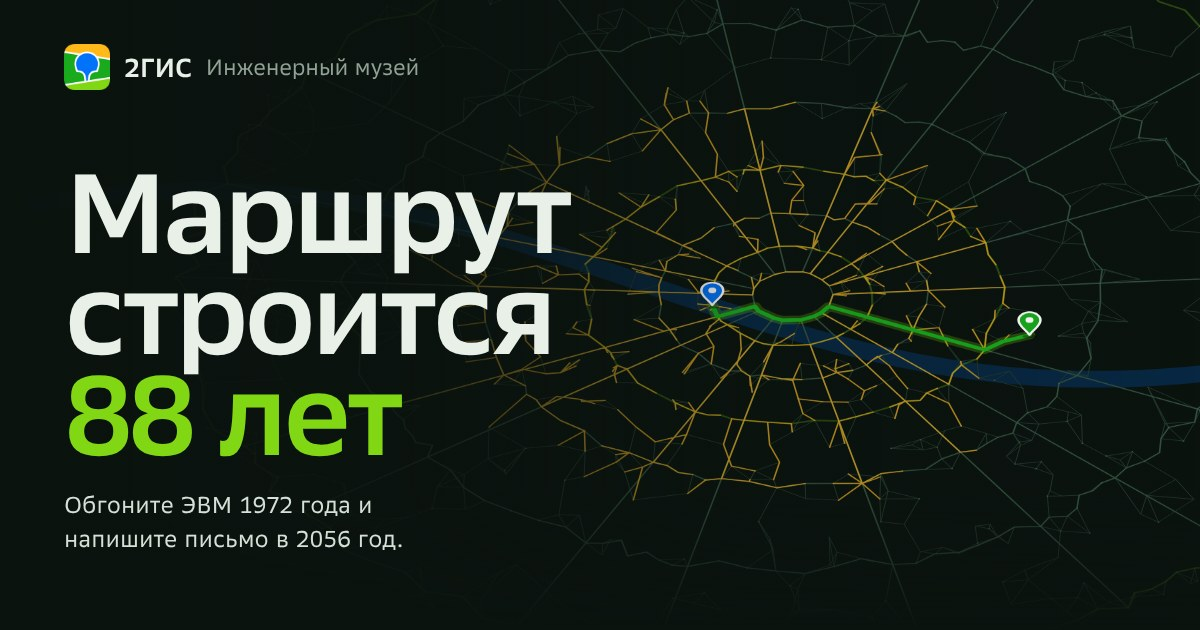
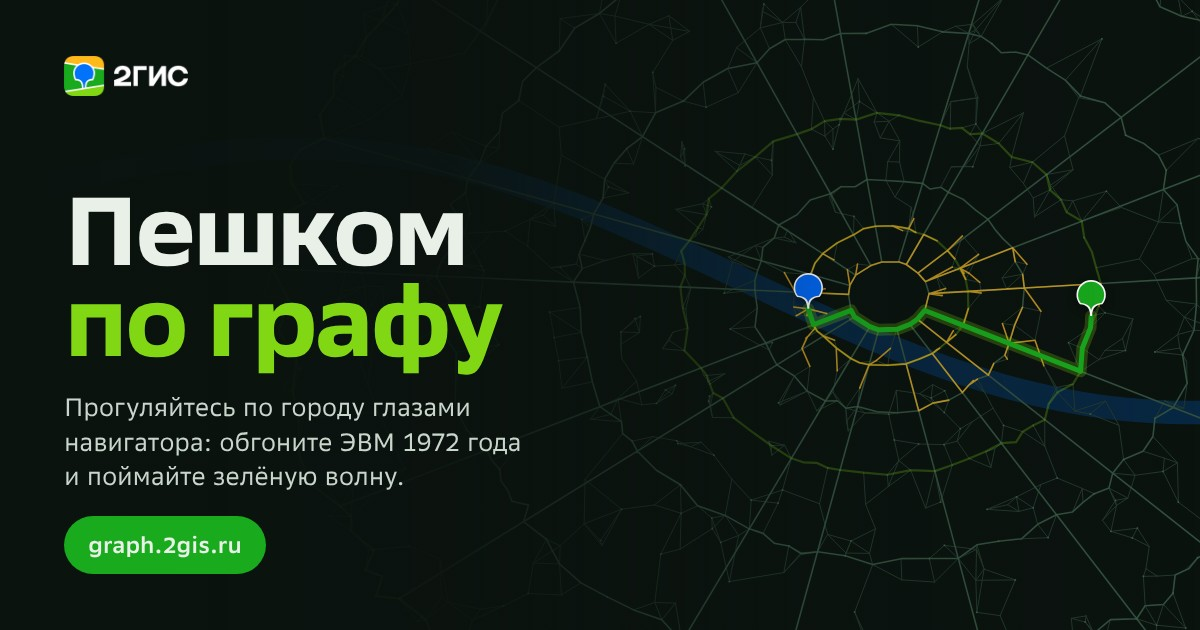
Новое название «Пешком по графу»: заголовок и подзаголовок главной, title/og/twitter, превью og.jpg, подпись на «Письме»
Claude-Session: https://claude.ai/code/session_01CYG6KtKyUFjKPup6NzhrLG

diff --git a/index.html b/index.html
@@ -2,29 +2,29 @@
 <html lang="ru">
 <head>
 <meta charset="utf-8">
-<meta http-equiv="Content-Security-Policy" content="default-src 'none'; script-src 'sha256-mmekFT+vSR/B6i0H95cW++vMzLoxH6wfx28uEVLhYxU='; style-src 'self' 'unsafe-inline'; img-src 'self' data: blob:; font-src 'self'; connect-src 'none'; media-src 'none'; object-src 'none'; frame-src 'none'; worker-src 'none'; manifest-src 'none'; base-uri 'none'; form-action 'none'; upgrade-insecure-requests">
+<meta http-equiv="Content-Security-Policy" content="default-src 'none'; script-src 'sha256-JeanmXmzfHwtocuhwb2xp05it23G108tna4gvtkZtZo='; style-src 'self' 'unsafe-inline'; img-src 'self' data: blob:; font-src 'self'; connect-src 'none'; media-src 'none'; object-src 'none'; frame-src 'none'; worker-src 'none'; manifest-src 'none'; base-uri 'none'; form-action 'none'; upgrade-insecure-requests">
 <meta name="referrer" content="strict-origin-when-cross-origin">
 <meta name="viewport" content="width=device-width,initial-scale=1,viewport-fit=cover">
 <meta name="theme-color" content="#0B130F">
 <link rel="icon" href="assets/img/2gis-logo.png">
-<title>Маршрут строится 88 лет</title>
-<meta name="description" content="Обгоните ЭВМ 1972 года, перекройте улицы и сравните алгоритмы поиска пути, напишите письмо в 2056 год. Интерактивный музей одной инженерной задачи от 2ГИС.">
+<title>Пешком по графу</title>
+<meta name="description" content="Прогуляйтесь по городу глазами навигатора: обгоните ЭВМ 1972 года и поймайте зелёную волну.">
 <link rel="canonical" href="https://graph.2gis.ru/">
 <meta property="og:type" content="website">
 <meta property="og:site_name" content="2ГИС · Инженерный музей">
 <meta property="og:locale" content="ru_RU">
 <meta property="og:url" content="https://graph.2gis.ru/">
-<meta property="og:title" content="Маршрут строится 88 лет">
-<meta property="og:description" content="Обгоните ЭВМ 1972 года, перекройте улицы и сравните алгоритмы поиска пути, напишите письмо в 2056 год. Интерактивный музей одной инженерной задачи от 2ГИС.">
+<meta property="og:title" content="Пешком по графу">
+<meta property="og:description" content="Прогуляйтесь по городу глазами навигатора: обгоните ЭВМ 1972 года и поймайте зелёную волну.">
 <meta property="og:image" content="https://graph.2gis.ru/assets/og.jpg">
 <meta property="og:image:secure_url" content="https://graph.2gis.ru/assets/og.jpg">
 <meta property="og:image:type" content="image/jpeg">
 <meta property="og:image:width" content="1200">
 <meta property="og:image:height" content="630">
-<meta property="og:image:alt" content="Ночная карта города с построенным маршрутом и заголовком «Маршрут строится 88 лет»">
+<meta property="og:image:alt" content="Ночная карта города с построенным маршрутом и заголовком «Пешком по графу»">
 <meta name="twitter:card" content="summary_large_image">
-<meta name="twitter:title" content="Маршрут строится 88 лет">
-<meta name="twitter:description" content="Обгоните ЭВМ 1972 года, перекройте улицы и сравните алгоритмы поиска пути, напишите письмо в 2056 год. Интерактивный музей одной инженерной задачи от 2ГИС.">
+<meta name="twitter:title" content="Пешком по графу">
+<meta name="twitter:description" content="Прогуляйтесь по городу глазами навигатора: обгоните ЭВМ 1972 года и поймайте зелёную волну.">
 <meta name="twitter:image" content="https://graph.2gis.ru/assets/og.jpg">
 <meta name="vk:image" content="https://graph.2gis.ru/assets/og.jpg">
 <style>
@@ -683,8 +683,8 @@ html{scroll-padding-top:96px}
   </div>
   <div class="wrap hero-in">
     <div class="hero-copy">
-      <h1 id="h1">Навигация <span class="yrs">интереснее, чем&nbsp;кажется</span></h1>
-      <p class="lede">Тысячи лет люди строили маршруты самостоятельно, а в XX веке это начали доверять машине. Мы нашли статьи про задачи навигации в советских журналах и сравнили с рассказами инженеров 2ГИС о том, как всё работает сегодня. Получился интерактивный музей, в котором можно узнать, какая сложная инженерная работа стоит за маршрутами.</p>
+      <h1 id="h1">Пешком <span class="yrs">по&nbsp;графу</span></h1>
+      <p class="lede">Это интерактивный музей задач про навигацию. Обгоните ЭВМ 1972 года, поймайте зелёную волну и найдите себя на карте глазами робота.</p>
       <div class="ctas">
         <a class="btn btn-go" href="#hall-1">Начать экскурсию</a>
         <a class="btn btn-ghost" href="#letter">Сразу в 2056 год</a>
@@ -1952,7 +1952,7 @@ try{(function letter(){
     body();
     x.save(); x.translate(w-L-140,PB-95); x.rotate(-.2); x.strokeStyle='rgba(200,40,30,.85)'; x.fillStyle='rgba(200,40,30,.85)'; x.lineWidth=5; x.strokeRect(-135,-56,270,112); x.lineWidth=2; x.strokeRect(-125,-46,250,92);
     x.textAlign='center'; x.font='600 42px "SB Sans Text", sans-serif'; x.fillText('№ '+intf(a.no),0,4); x.font='500 19px "SB Sans Text", sans-serif'; x.fillText('из '+intf(TOTAL)+' вариантов',0,34); x.restore(); x.textAlign='left';
-    x.fillStyle='#46E06A'; x.font='500 24px "SB Sans Text", sans-serif'; x.fillText('Маршрут строится 88 лет · 2ГИС',L-70,h-48);
+    x.fillStyle='#46E06A'; x.font='500 24px "SB Sans Text", sans-serif'; x.fillText('Пешком по графу · 2ГИС',L-70,h-48);
     c.toBlob(b=>{ if(!b){note.textContent='Не удалось собрать картинку.';return} const u=URL.createObjectURL(b); const l=document.createElement('a'); l.href=u; l.download='pismo-2056.png'; document.body.appendChild(l); l.click(); l.remove(); setTimeout(()=>URL.revokeObjectURL(u),4000); note.textContent='Картинка сохранена в загрузки.'; },'image/png');
   };
   render();

diff --git a/source/template.html b/source/template.html
@@ -1,21 +1,21 @@
-<title>Маршрут строится 88 лет</title>
-<meta name="description" content="Обгоните ЭВМ 1972 года, перекройте улицы и сравните алгоритмы поиска пути, напишите письмо в 2056 год. Интерактивный музей одной инженерной задачи от 2ГИС.">
+<title>Пешком по графу</title>
+<meta name="description" content="Прогуляйтесь по городу глазами навигатора: обгоните ЭВМ 1972 года и поймайте зелёную волну.">
 <link rel="canonical" href="https://graph.2gis.ru/">
 <meta property="og:type" content="website">
 <meta property="og:site_name" content="2ГИС · Инженерный музей">
 <meta property="og:locale" content="ru_RU">
 <meta property="og:url" content="https://graph.2gis.ru/">
-<meta property="og:title" content="Маршрут строится 88 лет">
-<meta property="og:description" content="Обгоните ЭВМ 1972 года, перекройте улицы и сравните алгоритмы поиска пути, напишите письмо в 2056 год. Интерактивный музей одной инженерной задачи от 2ГИС.">
+<meta property="og:title" content="Пешком по графу">
+<meta property="og:description" content="Прогуляйтесь по городу глазами навигатора: обгоните ЭВМ 1972 года и поймайте зелёную волну.">
 <meta property="og:image" content="https://graph.2gis.ru/assets/og.jpg">
 <meta property="og:image:secure_url" content="https://graph.2gis.ru/assets/og.jpg">
 <meta property="og:image:type" content="image/jpeg">
 <meta property="og:image:width" content="1200">
 <meta property="og:image:height" content="630">
-<meta property="og:image:alt" content="Ночная карта города с построенным маршрутом и заголовком «Маршрут строится 88 лет»">
+<meta property="og:image:alt" content="Ночная карта города с построенным маршрутом и заголовком «Пешком по графу»">
 <meta name="twitter:card" content="summary_large_image">
-<meta name="twitter:title" content="Маршрут строится 88 лет">
-<meta name="twitter:description" content="Обгоните ЭВМ 1972 года, перекройте улицы и сравните алгоритмы поиска пути, напишите письмо в 2056 год. Интерактивный музей одной инженерной задачи от 2ГИС.">
+<meta name="twitter:title" content="Пешком по графу">
+<meta name="twitter:description" content="Прогуляйтесь по городу глазами навигатора: обгоните ЭВМ 1972 года и поймайте зелёную волну.">
 <meta name="twitter:image" content="https://graph.2gis.ru/assets/og.jpg">
 <meta name="vk:image" content="https://graph.2gis.ru/assets/og.jpg">
 <style>
@@ -669,8 +669,8 @@ html{scroll-padding-top:96px}
   </div>
   <div class="wrap hero-in">
     <div class="hero-copy">
-      <h1 id="h1">Навигация <span class="yrs">интереснее, чем&nbsp;кажется</span></h1>
-      <p class="lede">Тысячи лет люди строили маршруты самостоятельно, а в XX веке это начали доверять машине. Мы нашли статьи про задачи навигации в советских журналах и сравнили с рассказами инженеров 2ГИС о том, как всё работает сегодня. Получился интерактивный музей, в котором можно узнать, какая сложная инженерная работа стоит за маршрутами.</p>
+      <h1 id="h1">Пешком <span class="yrs">по&nbsp;графу</span></h1>
+      <p class="lede">Это интерактивный музей задач про навигацию. Обгоните ЭВМ 1972 года, поймайте зелёную волну и найдите себя на карте глазами робота.</p>
       <div class="ctas">
         <a class="btn btn-go" href="#hall-1">Начать экскурсию</a>
         <a class="btn btn-ghost" href="#letter">Сразу в 2056 год</a>
@@ -1938,7 +1938,7 @@ try{(function letter(){
     body();
     x.save(); x.translate(w-L-140,PB-95); x.rotate(-.2); x.strokeStyle='rgba(200,40,30,.85)'; x.fillStyle='rgba(200,40,30,.85)'; x.lineWidth=5; x.strokeRect(-135,-56,270,112); x.lineWidth=2; x.strokeRect(-125,-46,250,92);
     x.textAlign='center'; x.font='600 42px "SB Sans Text", sans-serif'; x.fillText('№ '+intf(a.no),0,4); x.font='500 19px "SB Sans Text", sans-serif'; x.fillText('из '+intf(TOTAL)+' вариантов',0,34); x.restore(); x.textAlign='left';
-    x.fillStyle='#46E06A'; x.font='500 24px "SB Sans Text", sans-serif'; x.fillText('Маршрут строится 88 лет · 2ГИС',L-70,h-48);
+    x.fillStyle='#46E06A'; x.font='500 24px "SB Sans Text", sans-serif'; x.fillText('Пешком по графу · 2ГИС',L-70,h-48);
     c.toBlob(b=>{ if(!b){note.textContent='Не удалось собрать картинку.';return} const u=URL.createObjectURL(b); const l=document.createElement('a'); l.href=u; l.download='pismo-2056.png'; document.body.appendChild(l); l.click(); l.remove(); setTimeout(()=>URL.revokeObjectURL(u),4000); note.textContent='Картинка сохранена в загрузки.'; },'image/png');
   };
   render();

diff --git a/README.md b/README.md
@@ -1,4 +1,4 @@
-# Маршрут строится 88 лет
+# Пешком по графу (graph.2gis.ru)
 
 Спецпроект 2ГИС: интерактивный музей одной инженерной задачи — как довести человека из точки А в точку Б.
 Статьи из «Техники — молодёжи» и «Науки и жизни» 1938–1984 годов и работа инженеров 2ГИС сегодня.
